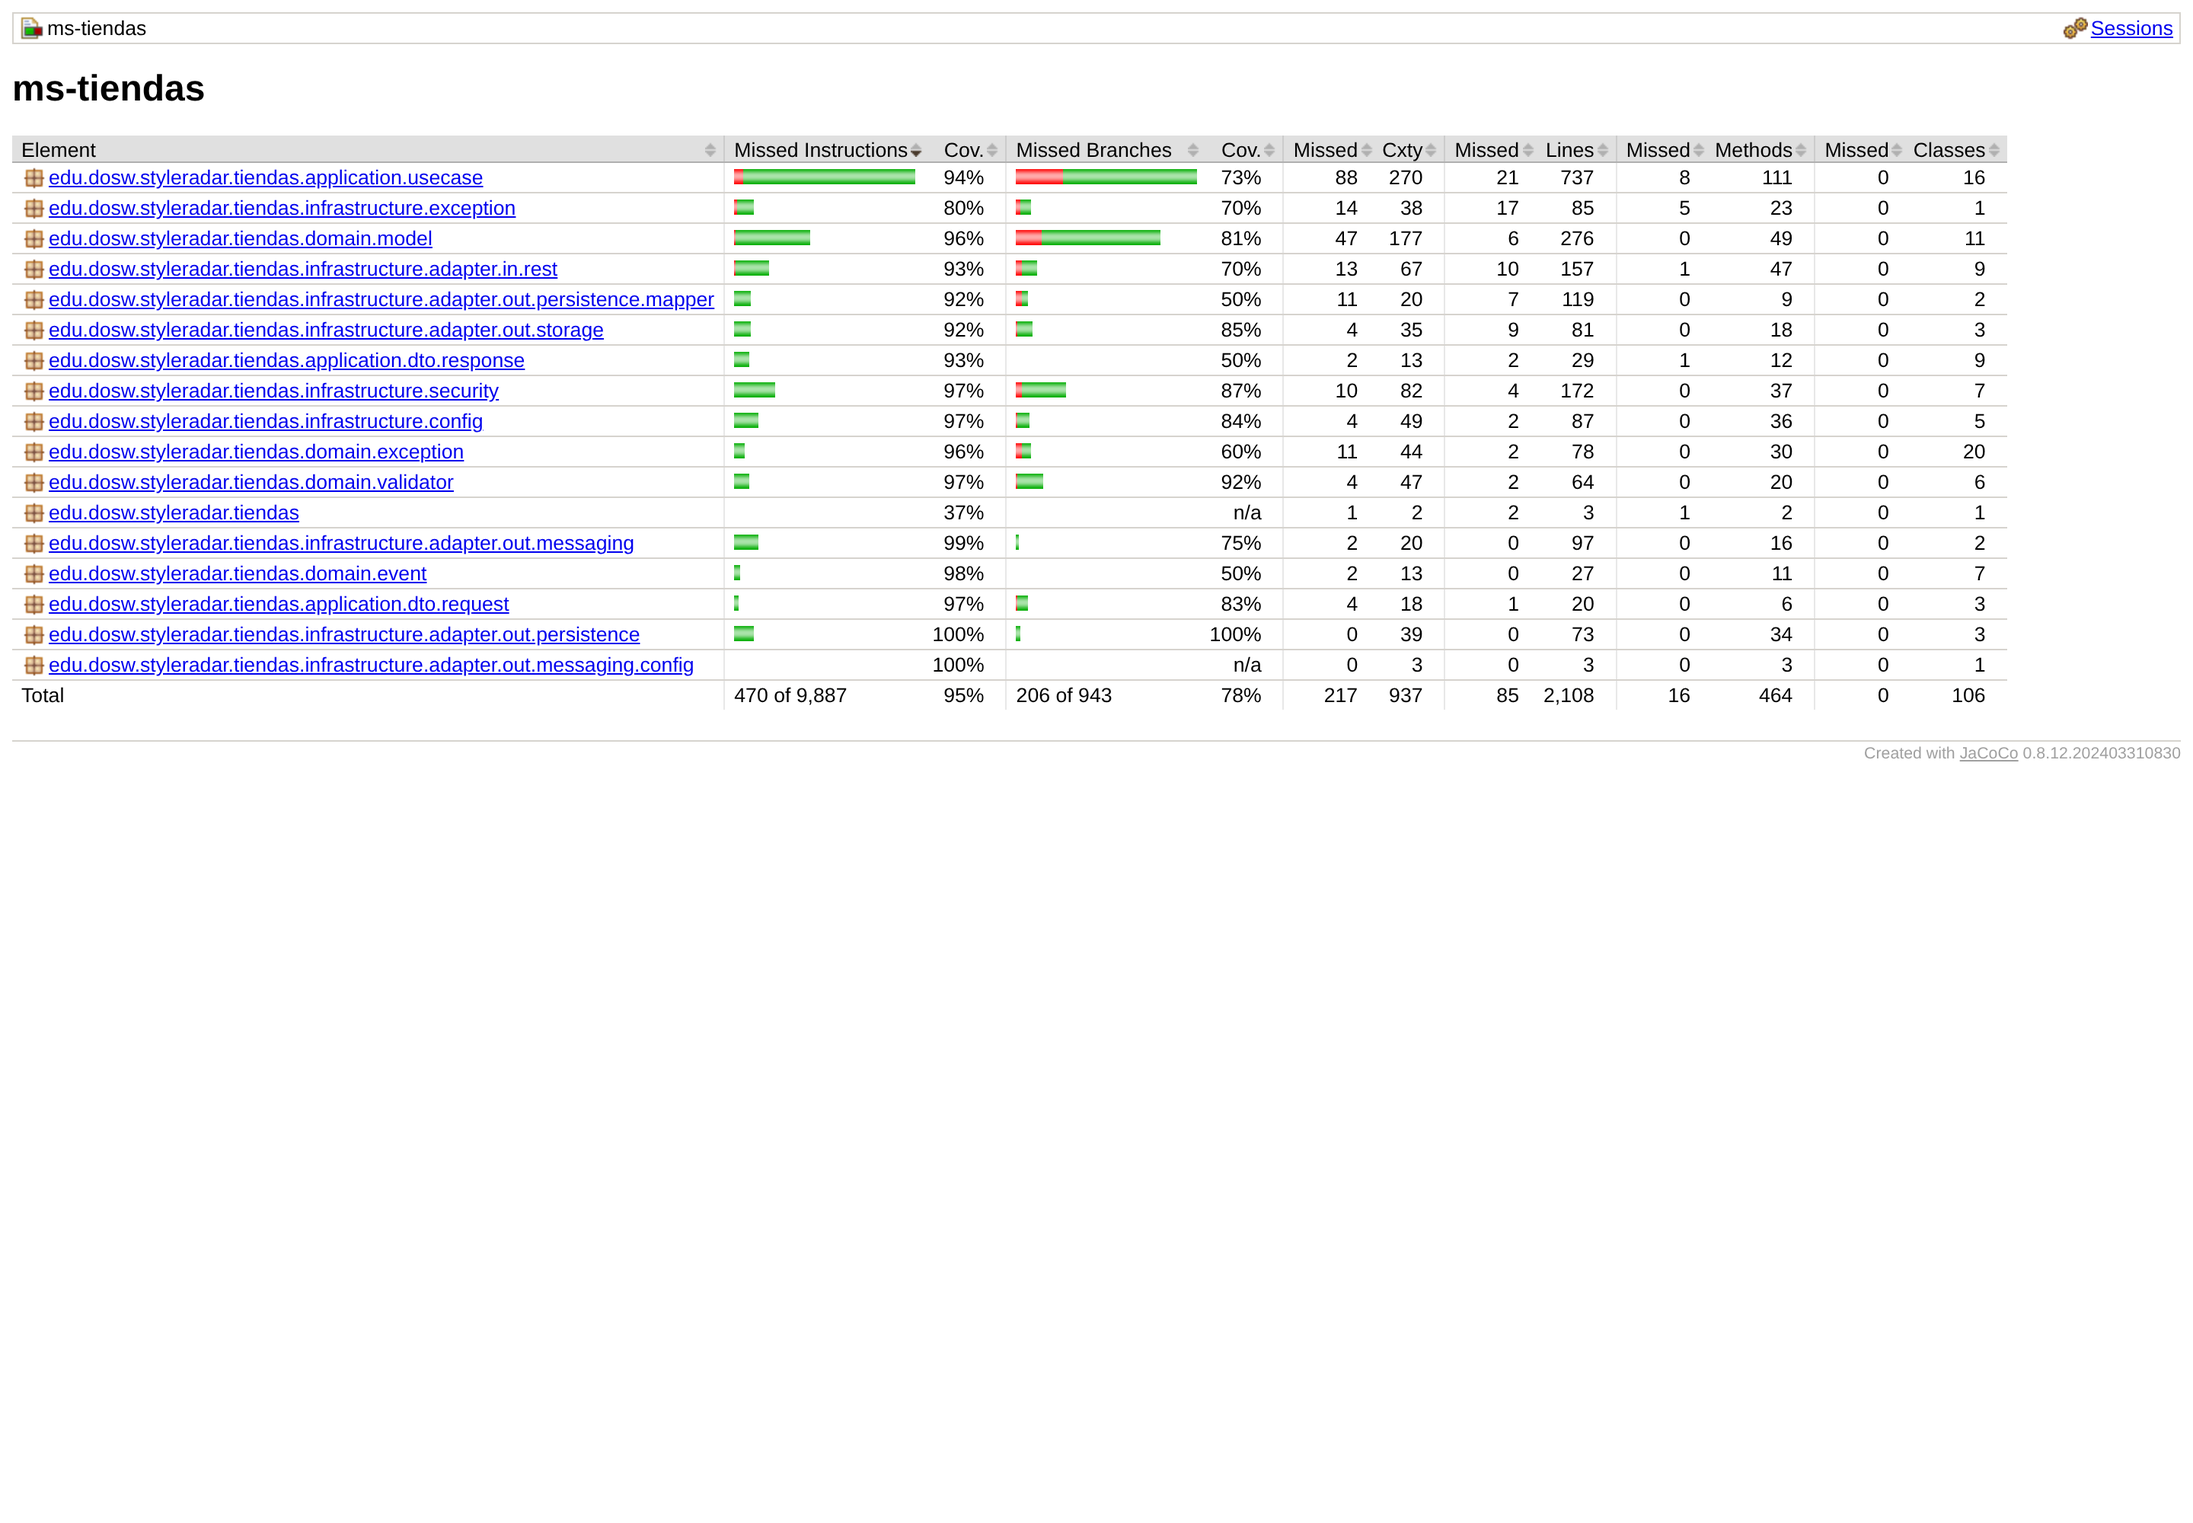
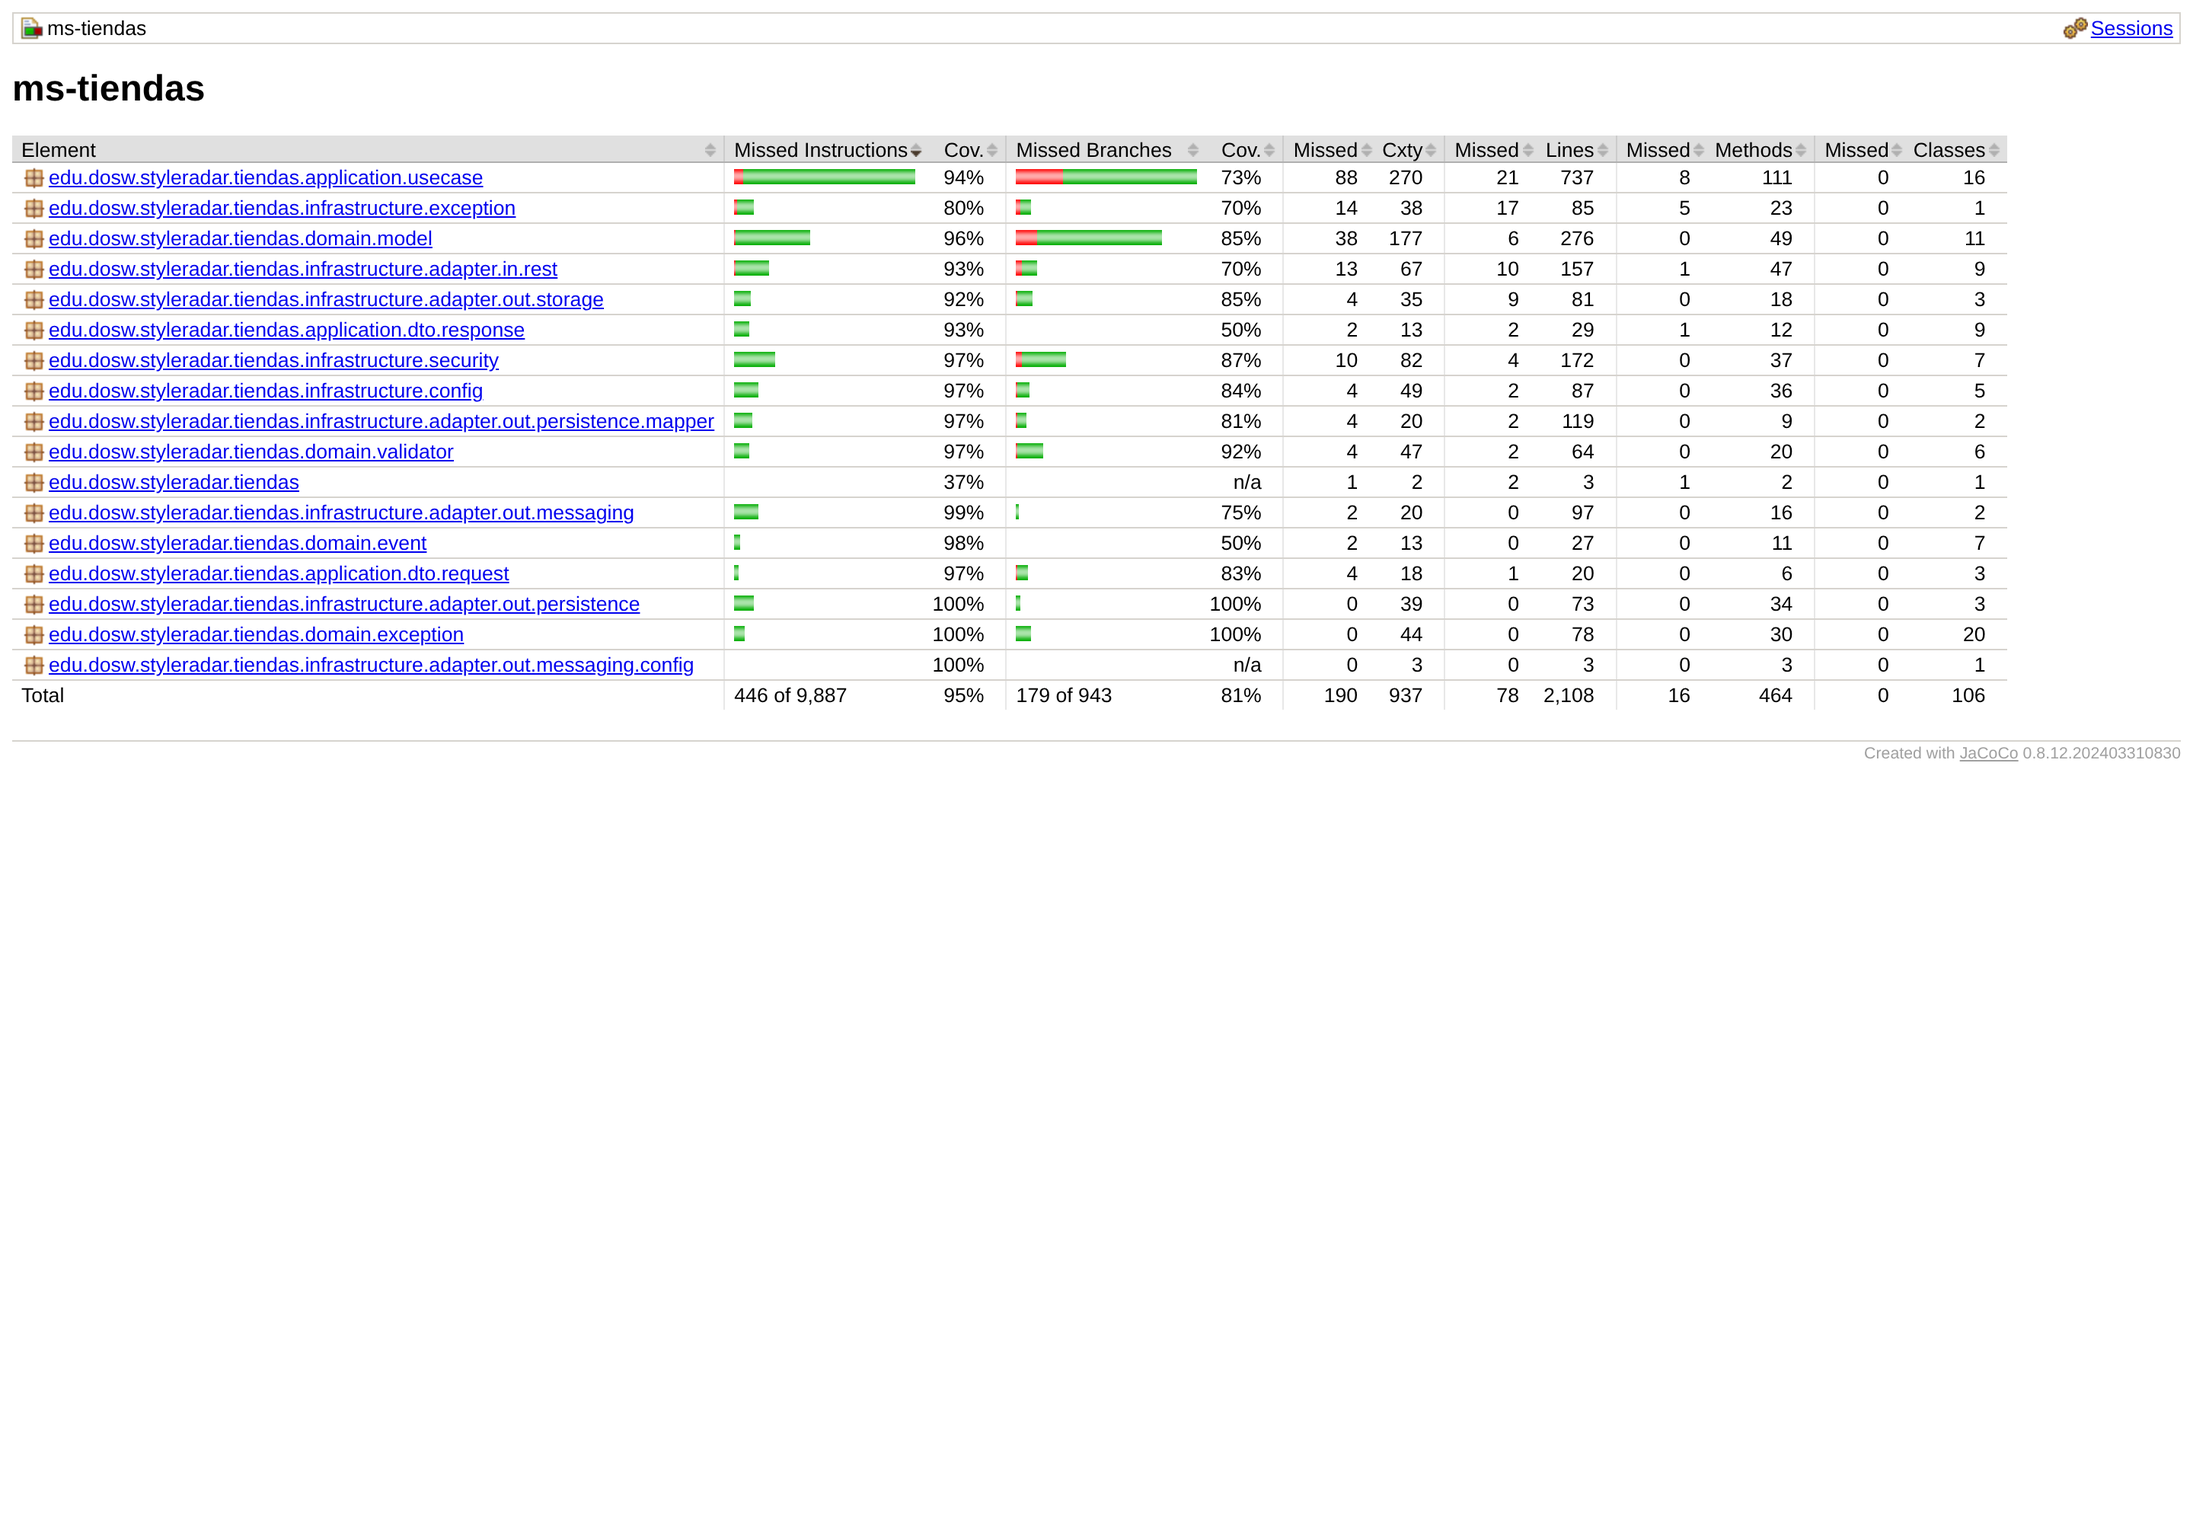
docs(tiendas): evidencias de Docker y Jira, diagrama de secuencia, cobertura 85/80 y pipeline ci.yml en el readme

diff --git a/docs/secciones/02-arquitectura-hexagonal-y-diagramas.md b/docs/secciones/02-arquitectura-hexagonal-y-diagramas.md
@@ -47,7 +47,7 @@ flowchart LR
 
 **Justificación del diagrama de capas.** Resume la regla de dependencia de la arquitectura hexagonal: el front y ms-auth (que emite el JWT) llegan por los adaptadores de entrada; PostgreSQL, Azure Blob y RabbitMQ quedan detrás de puertos de salida. Permite verificar de un vistazo que los casos de uso no conocen JPA, el SDK de Azure ni AMQP, y que cambiar un proveedor solo exige otro adaptador.
 
-### 3.1 Diagrama de Clases
+### 2.1 Diagrama de Clases
 
 <div align="center">
   <img src="../uml/DiagramaClases.png" alt="Diagrama de Clases ms-tiendas" width="100%" />
@@ -56,7 +56,7 @@ flowchart LR
 
 **Justificación del diagrama de clases.** Se genera desde el código fuente y muestra los dos agregados del servicio: `Almacen` (con sus fotografías, administradores, umbral y periodo de nueva llegada) y `Fundacion`. Ahí viven las reglas del análisis de requerimientos (máximo 6 fotos y portada, «agotado prevalece», motivo de rechazo de 10 a 1000 caracteres, desactivar y reactivar), además de los validadores de autorización (dueño del almacén, Admin de StyleRadar y dueño del recurso en `/users/{userId}`) y los eventos que se publican.
 
-### 3.2 Diagrama de Base de Datos
+### 2.2 Diagrama de Base de Datos
 
 <div align="center">
   <img src="../uml/DiagramaBaseDatos.png" alt="Modelo de base de datos ms-tiendas" width="100%" />
@@ -74,7 +74,7 @@ flowchart LR
 | `fundaciones` | `id` | `nombre` y `nit` únicos; `activa` para la desactivación lógica. |
 | `fundacion_categorias_aceptadas` | — | FK `fundacion_id` → `fundaciones.id`; `UNIQUE (fundacion_id, categoria)`. |
 
-### 3.3 Diagrama de Componentes Específico
+### 2.3 Diagrama de Componentes Específico
 
 <div align="center">
   <img src="../uml/DiagramaComponentesEspecifico.png" alt="Componentes ms-tiendas" width="100%" />
@@ -83,7 +83,7 @@ flowchart LR
 
 **Justificación del diagrama de componentes específico.** Detalla cada controlador, caso de uso, puerto y adaptador real de ms-tiendas y las interfaces que los unen. Sirve para ubicar dónde se implementa cada historia (SR-RF-59 a SR-RF-74) y para comprobar que cada puerto de salida tiene su adaptador: JPA para los datos, Azure Blob (o memoria en pruebas) para los archivos y RabbitMQ para los eventos.
 
-### 3.4 Diagrama de Componentes General (ecosistema StyleRadar)
+### 2.4 Diagrama de Componentes General (ecosistema StyleRadar)
 
 <div align="center">
   <img src="../uml/DiagramaComponentesGeneral.webp" alt="Diagrama de componentes general de StyleRadar" width="100%" />
@@ -98,7 +98,7 @@ flowchart LR
 * **RabbitMQ:** ms-tiendas publica `foundation.deactivated` y `foundation.reactivated` para que el servicio de donaciones deje de ofrecer la fundación o la vuelva a ofrecer.
 * **ms-auth** no se llama en cada petición: ms-tiendas valida el JWT localmente con el mismo secreto.
 
-### 3.5 Diagrama de Despliegue
+### 2.5 Diagrama de Despliegue
 
 <div align="center">
   <img src="../uml/DiagramaDespliegue.webp" alt="Diagrama de despliegue de StyleRadar" width="100%" />
@@ -116,6 +116,15 @@ flowchart LR
 1. ms-tiendas hoy se despliega en **Azure App Service** (`styleradar-tiendas-qa` y `styleradar-tiendas-prod`), no en Container Apps. El diagrama representa la arquitectura objetivo.
 2. El diagrama de despliegue no muestra **Azure Blob Storage**, que ms-tiendas sí usa (el de componentes general sí lo incluye).
 3. `Donations` y `Virtual Try-on` aparecen con el mismo puerto `8520`; uno de los dos debe cambiar.
+
+### 2.6 Diagrama de Secuencia
+
+Flujo principal de `ms-tiendas`: registro y aprobación de un almacén: subida del RUT a Azure Blob, registro en estado `PENDING`, decisión del admin StyleRadar y evento `store.verification.changed`. Fuente editable en Mermaid: [`DiagramaSecuencia.mmd`](../uml/secuencia/DiagramaSecuencia.mmd).
+
+<div align="center">
+  <img src="../uml/secuencia/DiagramaSecuencia.png" alt="Diagrama de secuencia ms-tiendas" width="90%" />
+  <p><sub><b>Figura 2.6:</b> diagrama de secuencia de `ms-tiendas` con la plantilla StyleRadar (logo, título y colores).</sub></p>
+</div>
 
 ### Estructura de Paquetes en `src/main/java/edu/dosw/styleradar/tiendas/`
 

diff --git a/docs/secciones/12-equipo-responsables-y-epica-jira.md b/docs/secciones/12-equipo-responsables-y-epica-jira.md
@@ -22,33 +22,19 @@ El seguimiento de requerimientos, evidencias y artefactos de entrega se centrali
 
 ### Enlaces de Gestión, Repositorios y Evidencias
 
-* **Épica Oficial del Microservicio (Jira):** [https://mail-team-nyjtgqcj.atlassian.net/jira/software/projects/CADCHE/boards/75/backlog](https://mail-team-nyjtgqcj.atlassian.net/jira/software/projects/CADCHE/boards/75/backlog)
+* **Épica Oficial del Microservicio (Jira):** [CADCHE-3](https://mail-team-nyjtgqcj.atlassian.net/browse/CADCHE-3)
 * **Tablero Scrum del Squad CADche (Jira):** [https://mail-team-nyjtgqcj.atlassian.net/jira/software/projects/CADCHE/boards/75/backlog](https://mail-team-nyjtgqcj.atlassian.net/jira/software/projects/CADCHE/boards/75/backlog)
 * **API Swagger en Producción (PROD):** [https://styleradar-tiendas-prod.azurewebsites.net/swagger-ui/index.html](https://styleradar-tiendas-prod.azurewebsites.net/swagger-ui/index.html)
 * **API Swagger en Calidad (QA):** [https://styleradar-tiendas-qa.azurewebsites.net/swagger-ui/index.html](https://styleradar-tiendas-qa.azurewebsites.net/swagger-ui/index.html)
 * **Video de Respaldo de la Demostración:** [Demostración Funcional en Google Drive](https://drive.google.com/file/d/1W6dklNVi8Bp8LQUx1dkGrkMlly0gRjd7/view?usp=sharing)
 
 
+
+### Evidencia: épica en Jira
+
 <div align="center">
-  <table width="100%" style="margin: 18px 0; border: 2px solid #5600EF; border-radius: 8px; background-color: #FBFBFE;">
-    <tr>
-      <td align="center" style="padding: 22px;">
-        <p>
-          <img src="https://img.shields.io/badge/EVIDENCIA-TABLERO_JIRA-5600EF?style=for-the-badge&logo=jira&logoColor=white" alt="Evidencia Jira" />&nbsp;
-          <img src="https://img.shields.io/badge/ESTADO-100%25_HECHO-16A34A?style=for-the-badge" alt="Estado Hecho" /><br />
-          <strong><font color="#5600EF" size="3">TABLERO SCRUM Y SEGUIMIENTO DE LA ÉPICA EN JIRA</font></strong>
-        </p>
-        <p>
-          <sub>Seguimiento activo en el tablero oficial de Jira: <strong>Épica CADCHE-Stores-Service</strong> con 7 de 7 Historias de Usuario completadas en estado <em>Hecho</em>, con criterios de aceptación verificados, sets de pruebas automatizadas y evidencias adjuntas.</sub>
-        </p>
-        <p>
-          <a href="https://mail-team-nyjtgqcj.atlassian.net/jira/software/projects/CADCHE/boards/75/backlog" target="_blank">
-            <img src="https://img.shields.io/badge/Acceder_al_Tablero_Jira-StyleRadar_CADCHE-0052CC?style=for-the-badge&logo=jira&logoColor=white" alt="Ver Tablero Jira" />
-          </a>
-        </p>
-      </td>
-    </tr>
-  </table>
+  <img src="../evidencias/jira-epica.png" alt="Épica CADCHE-3 en Jira" width="90%" />
+  <p><sub><b>Figura 12.1:</b> épica <code>CADCHE-3</code> en Jira: 7 de 7 historias y 33 de 34 actividades en «Listo»; la única pendiente es la integración del Front (CADCHE-126), a cargo del equipo Front.</sub></p>
 </div>
 
 ### Requerimientos Funcionales Asignados (análisis de requerimientos v6)

diff --git a/docs/secciones/08-pruebas-y-cobertura.md b/docs/secciones/08-pruebas-y-cobertura.md
@@ -5,16 +5,19 @@
 ## 8. PRUEBAS Y COBERTURA (≥ 85%)
 
 ```bash
-mvn -B clean verify
-mvn -B com.github.spotbugs:spotbugs-maven-plugin:4.8.6.6:check -Dspotbugs.excludeFilterFile=spotbugs-exclude.xml
+./mvnw -B clean verify                                                         # pruebas + JaCoCo (≥ 85 % líneas, ≥ 80 % ramas)
+./mvnw -B com.github.spotbugs:spotbugs-maven-plugin:4.8.6.6:check -Dspotbugs.excludeFilterFile=spotbugs-exclude.xml
 ```
 
-| Métrica (`mvn verify`, rama `feature/arreglos`) | Resultado | Umbral |
+| Métrica (`./mvnw verify` con Docker, rama `feature/arreglos`) | Resultado | Umbral (rompe el build) |
 | :--- | :---: | :---: |
-| Pruebas | **408**, 0 fallos | 100 % en verde |
-| Cobertura de instrucciones | **94.5 %** | ≥ 85 % (rompe el build) |
-| Cobertura de ramas | **76.4 %** | — |
+| Pruebas | **493**, 0 fallos | 100 % en verde |
+| Cobertura de líneas (JaCoCo) | **96.3 %** | ≥ 85 % |
+| Cobertura de ramas (JaCoCo) | **81.0 %** | ≥ 80 % |
+| Cobertura de instrucciones (JaCoCo) | **95.5 %** | ≥ 85 % |
 | SpotBugs | 0 hallazgos | 0 |
+
+La regla vive en `pom.xml` (`jacoco-maven-plugin`, objetivo `check` en la fase `verify`) con los mismos umbrales del repo base: 85 % de líneas y 80 % de ramas, más 85 % de instrucciones. Los tres pipelines ejecutan `./mvnw verify`, así que una caída de cobertura detiene el PR o el despliegue.
 
 | Nivel | Qué cubre |
 | :--- | :--- |
@@ -32,7 +35,7 @@ mvn -B com.github.spotbugs:spotbugs-maven-plugin:4.8.6.6:check -Dspotbugs.exclud
 
 <div align="center">
   <img src="../evidencias/jacoco-cobertura.png" alt="JaCoCo ms-tiendas" width="90%" />
-  <p><sub><b>Figura 8.1:</b> reporte JaCoCo de `mvn verify` (con Docker): líneas 96.0 %, instrucciones 95.2 %, ramas 78.2 %.</sub></p>
+  <p><sub><b>Figura 8.1:</b> reporte JaCoCo de `./mvnw verify` (con Docker): líneas 96.3 %, ramas 81.0 %, instrucciones 95.5 %.</sub></p>
 </div>
 
 <!-- /evidencias -->

diff --git a/docs/secciones/09-cicd-pipeline.md b/docs/secciones/09-cicd-pipeline.md
@@ -4,12 +4,14 @@
 
 ## 9. CI/CD CON EL BADGE DEL PIPELINE
 
+[![CI](https://github.com/StyleRadar1/CADCHE-Stores-Service/actions/workflows/ci.yml/badge.svg)](https://github.com/StyleRadar1/CADCHE-Stores-Service/actions/workflows/ci.yml)
 [![CI/CD QA](https://github.com/StyleRadar1/CADCHE-Stores-Service/actions/workflows/ci-qa.yml/badge.svg?branch=develop)](https://github.com/StyleRadar1/CADCHE-Stores-Service/actions/workflows/ci-qa.yml)
 [![CD PROD](https://github.com/StyleRadar1/CADCHE-Stores-Service/actions/workflows/ci-prod.yml/badge.svg?branch=main)](https://github.com/StyleRadar1/CADCHE-Stores-Service/actions/workflows/ci-prod.yml)
 
 | Workflow | Disparador | Etapas | Destino |
 | :--- | :--- | :--- | :--- |
-| [`ci-qa.yml`](../../.github/workflows/ci-qa.yml) | Push a `develop` y `feature/**`; PR a `develop` y `main` | Pruebas + JaCoCo → SpotBugs → Sonar (Quality Gate obligatorio) → imagen `qa-<sha>` → Azure QA → smoke test | `styleradar-tiendas-qa` |
+| [`ci.yml`](../../.github/workflows/ci.yml) | PR a `develop` y `main`; push a `feature/**`, `fix/**`, `docs/**` | `./mvnw verify` (JaCoCo ≥ 85 % líneas / ≥ 80 % ramas) → SpotBugs → Sonar → build de la imagen sin publicar | Solo revisión, no despliega |
+| [`ci-qa.yml`](../../.github/workflows/ci-qa.yml) | Push a `develop` o manual | Pruebas + JaCoCo → SpotBugs → Sonar (Quality Gate obligatorio) → imagen `qa-<sha>` → Azure QA → smoke test | `styleradar-tiendas-qa` |
 | [`ci-prod.yml`](../../.github/workflows/ci-prod.yml) | Push a `main`, tag `vX.Y.Z` o manual | Quality Gate → imagen `prod-<sha>` → aprobación del *environment* `production` → Azure PROD → smoke test | `styleradar-tiendas-prod` |
 
 * Se despliega siempre la imagen inmutable del commit (`qa-<sha>` / `prod-<sha>`).

diff --git a/docs/secciones/06-como-ejecutar-local-y-docker.md b/docs/secciones/06-como-ejecutar-local-y-docker.md
@@ -10,7 +10,7 @@
 git clone https://github.com/StyleRadar1/CADCHE-Stores-Service.git
 cd CADCHE-Stores-Service
 docker compose up -d tiendas-db tiendas-blob tiendas-rabbitmq
-mvn spring-boot:run "-Dspring-boot.run.profiles=dev"
+./mvnw spring-boot:run "-Dspring-boot.run.profiles=dev"
 ```
 
 Flyway aplica las migraciones al arrancar. En `dev`, `TRUST_GATEWAY_HEADERS=true` permite probar en Swagger con `X-User-Id` y `X-User-Roles`, o con un token de ms-auth en `dev`, que usa el mismo secreto de ejemplo.
@@ -18,9 +18,17 @@ Flyway aplica las migraciones al arrancar. En `dev`, `TRUST_GATEWAY_HEADERS=true
 ### Stack completo con Docker Compose
 
 ```bash
+./mvnw -B -DskipTests package   # la imagen copia el JAR ya validado
 docker compose up -d --build   # ms-tiendas :8140 · PostgreSQL 16 :5432 · Azurite :10000 · RabbitMQ :5672/:15672
 curl http://localhost:8140/actuator/health
 ```
+
+### Evidencia: contenedores en ejecución
+
+<div align="center">
+  <img src="../evidencias/docker-compose.png" alt="docker compose ps" width="90%" />
+  <p><sub><b>Figura 6.1:</b> `docker compose ps` con todos los contenedores de `ms-tiendas` en estado *healthy* y `/actuator/health` respondiendo `UP`.</sub></p>
+</div>
 
 ---
 

diff --git a/docs/secciones/05-tecnologias-y-dependencias.md b/docs/secciones/05-tecnologias-y-dependencias.md
@@ -15,7 +15,7 @@
 | Almacenamiento | Azure Blob Storage SDK (`azure-storage-blob`) | `12.29.1` | Subida real de RUT, fotos y certificados (CADCHE-117); Azurite en `docker` y en `AzureBlobStorageAdapterIntegrationTest`. |
 | Documentación | springdoc-openapi | `2.3.0` | Swagger UI y OpenAPI 3. |
 | Pruebas | JUnit 5, Mockito, Testcontainers | `5.10 / 5.7 / 1.19.8` | Unitarias, WebMvc e integración con **PostgreSQL 16 real**. |
-| Calidad | JaCoCo, SpotBugs, SonarCloud | `0.8.12 / 4.8.6 / –` | Cobertura ≥ 85 % y análisis estático. |
+| Calidad | JaCoCo, SpotBugs, SonarCloud | `0.8.12 / 4.8.6 / –` | Cobertura ≥ 85 % de líneas y ≥ 80 % de ramas, y análisis estático. |
 | Contenedor | Eclipse Temurin JRE Alpine | `21` | Imagen OCI no-root con el JAR validado en CI. |
 
 ### Análisis De Tecnologías Del Servicio (Plantilla Maestra Oficial)

diff --git a/docs/secciones/10-ramas-y-como-contribuir.md b/docs/secciones/10-ramas-y-como-contribuir.md
@@ -16,7 +16,7 @@ main        <-- Producción (despliega PROD)
 ### Checklist para Pull Requests
 
 - [ ] La rama parte del `develop` más reciente.
-- [ ] `mvn -B clean verify` pasa (pruebas y JaCoCo ≥ 85 %).
+- [ ] `./mvnw -B clean verify` pasa (pruebas y JaCoCo ≥ 85 % de líneas y ≥ 80 % de ramas).
 - [ ] SpotBugs sin hallazgos y Sonar en A.
 - [ ] Las migraciones nuevas son `V<n>__descripcion.sql` y nunca se edita una ya aplicada.
 - [ ] Swagger actualizado si cambió un contrato (y aviso a los equipos que lo consumen).
